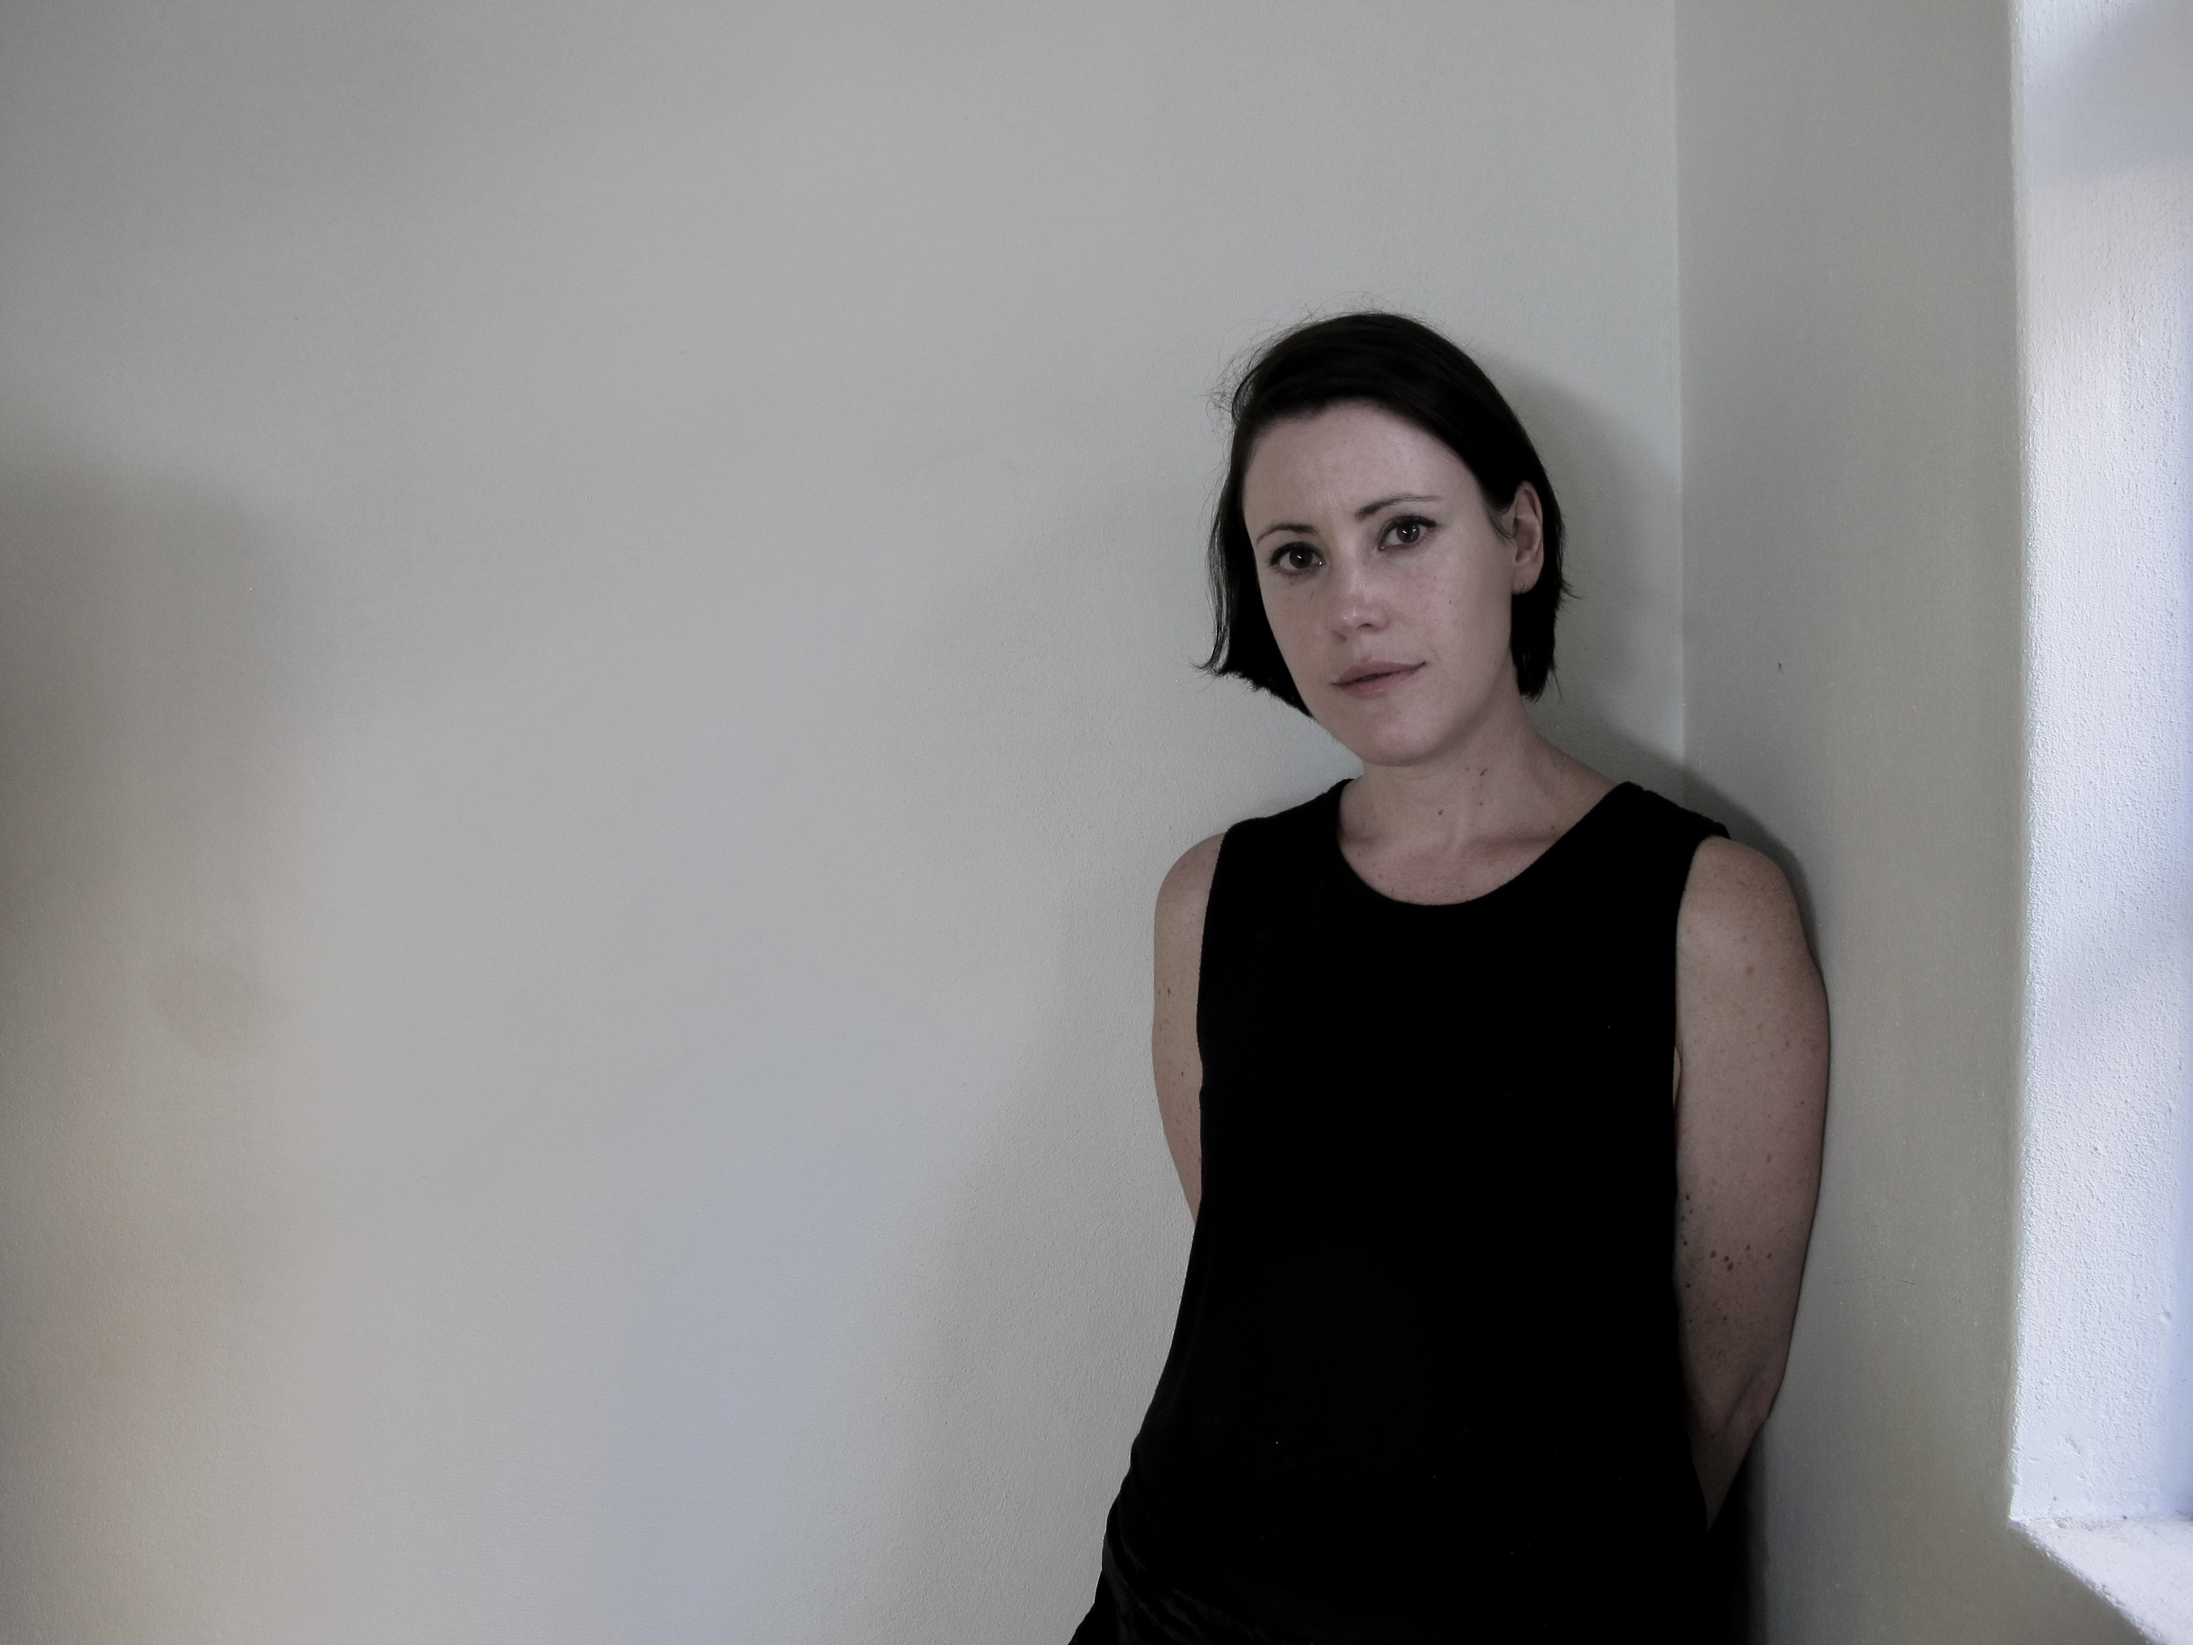
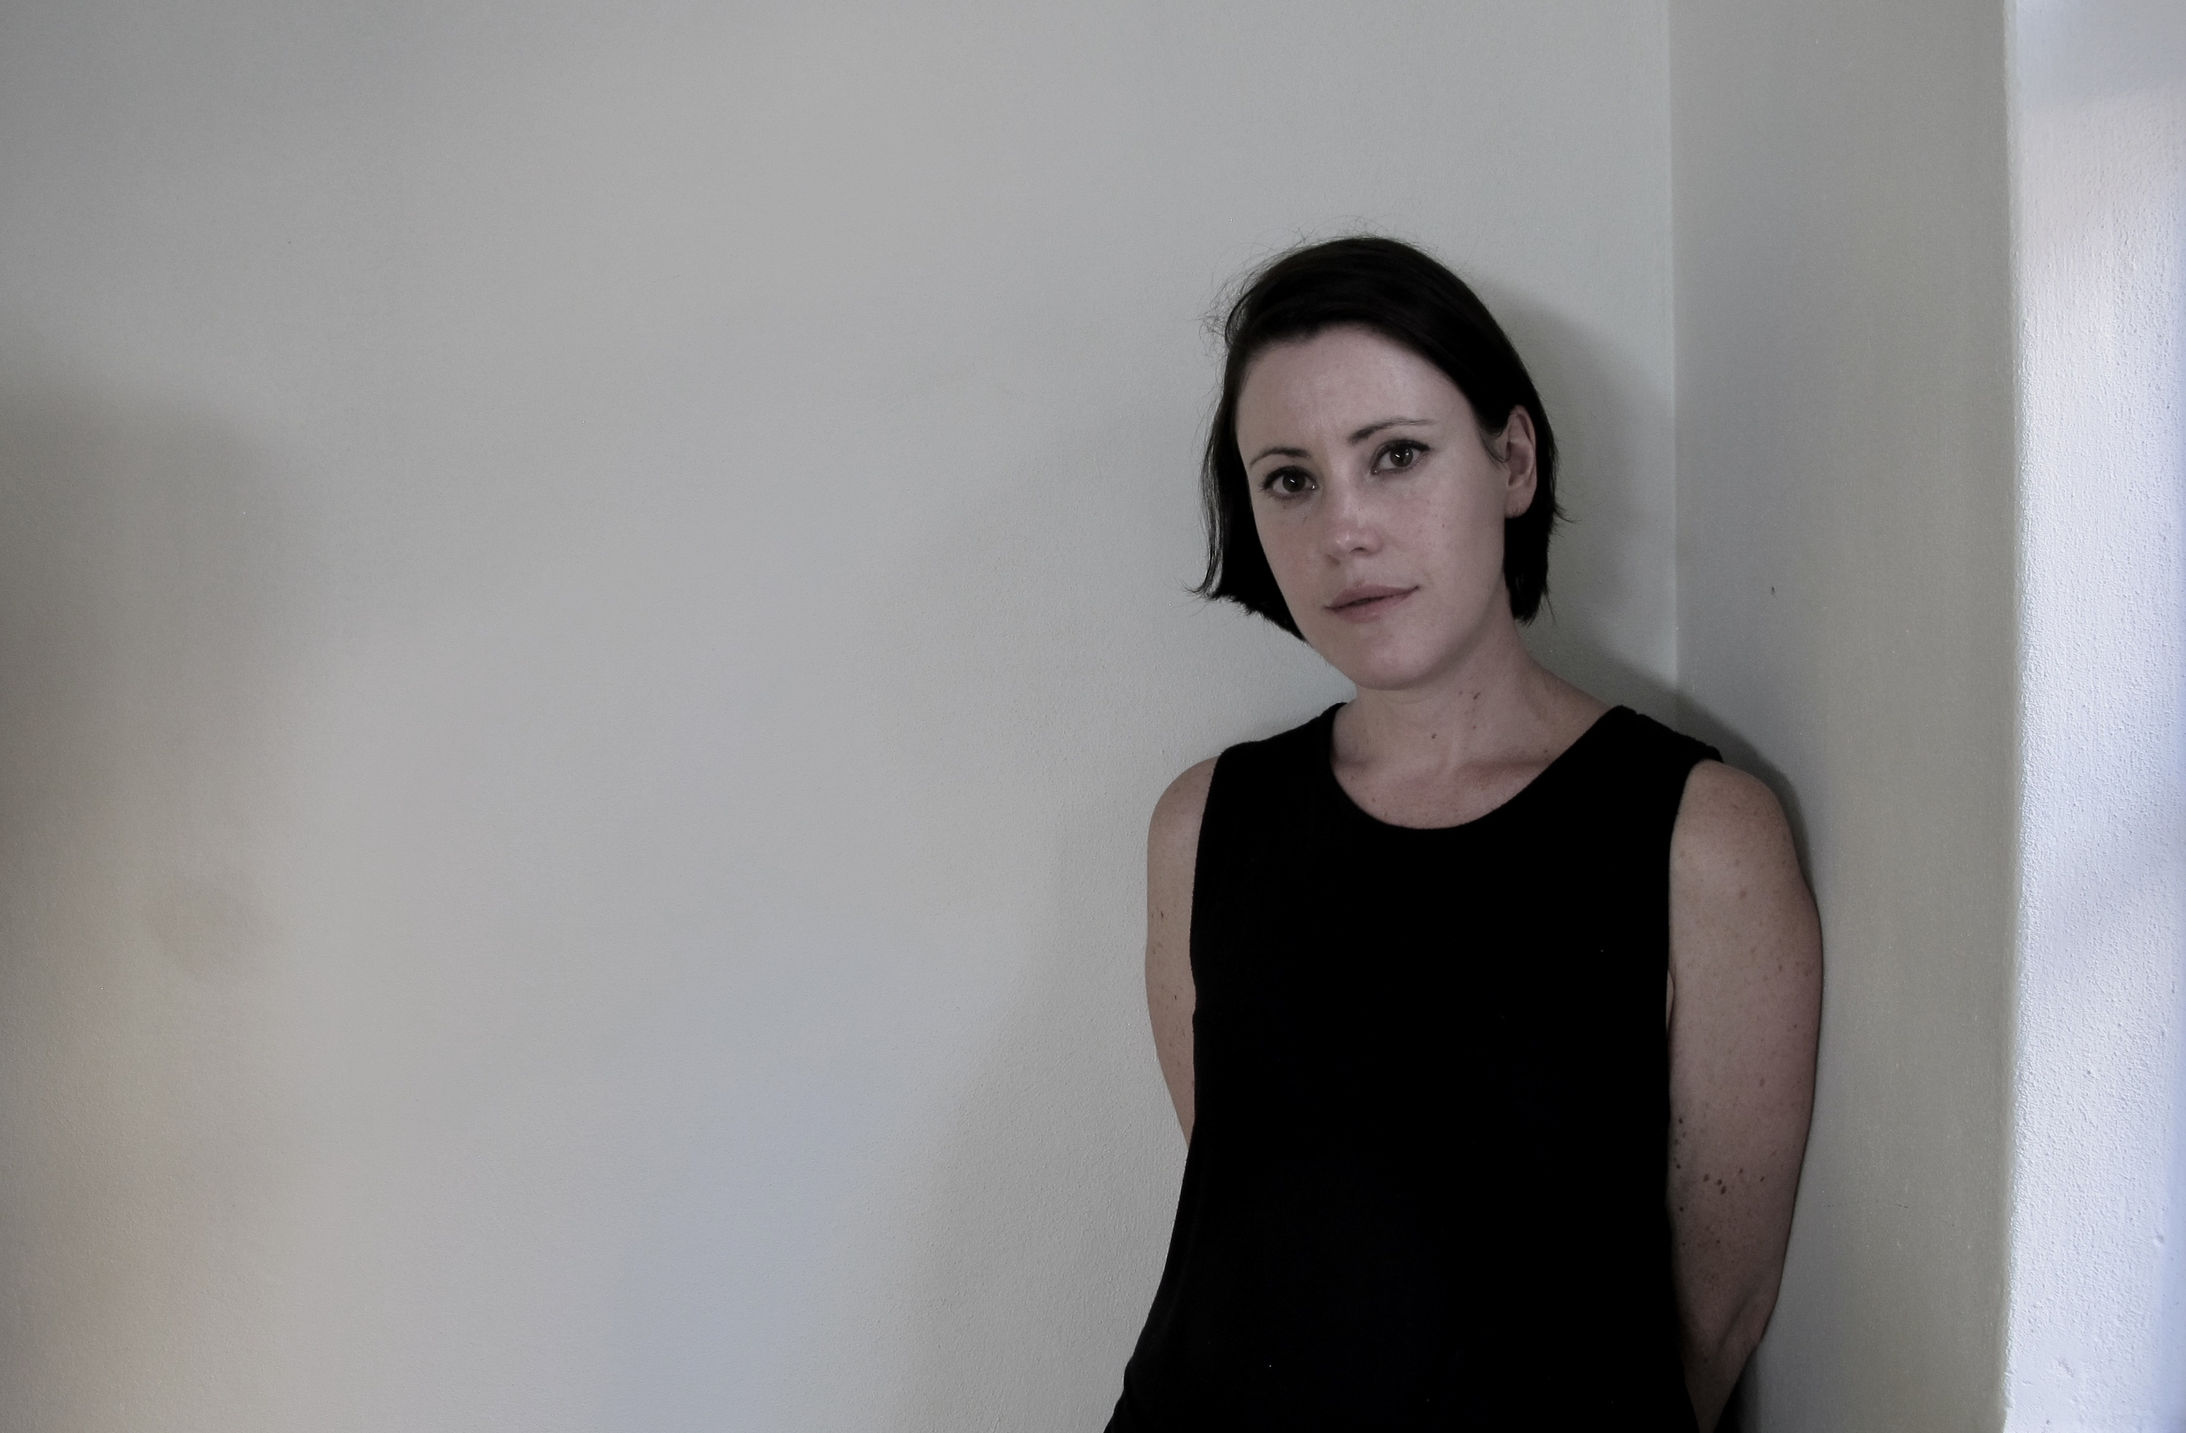
Small edits

diff --git a/resume7-2.html b/resume7-2.html
@@ -19,8 +19,12 @@
  <!-- portrait -->
     <header>
         <section id="portrait">
-        <img src="./images/Lara_landscape.JPG" alt="Lara Koseff" class="imagecenter">
-        </section>
+            <picture>
+            <source srcset="./images/Lara_mobile.jpg" media="(max-width: 500px)"class="imagecenter">
+            <source srcset="./images/Lara_tablet.jpg" media="(max-width: 800px)"class="imagecenter">
+            <img src="./images/Lara_landscape.JPG" alt="Lara Koseff" class="imagecenter">
+        </picture>
+    </section>
          <div class="center">
             <p><span class="pinktext">Hello, I'm</span></p>
             <br>

diff --git a/CSS/stylesheet.css b/CSS/stylesheet.css
@@ -107,7 +107,7 @@ display: flex;
     width: 130px;
     position: fixed;
     top: 0;
-    right: 0;
+    left: 0;
   }  
 
   #education {
